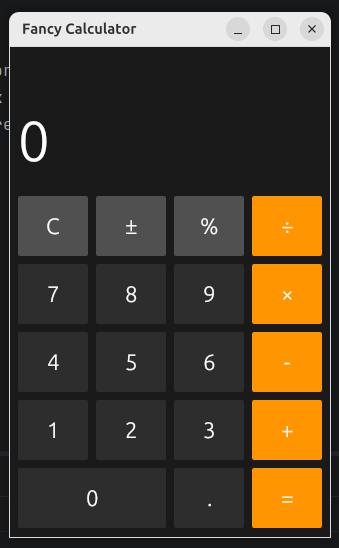
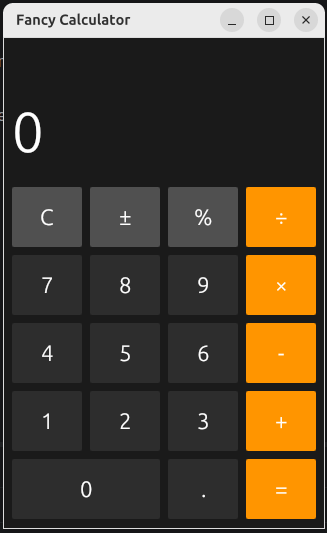
add app_id

diff --git a/src/main.rs b/src/main.rs
@@ -1,8 +1,10 @@
 use eframe::egui;
 
 fn main() -> eframe::Result<()> {
+    let app_id = "nl.one.winger.calc";
     let options = eframe::NativeOptions {
         viewport: egui::ViewportBuilder::default()
+            .with_app_id(app_id)
             .with_inner_size([320.0, 490.0])
             .with_min_inner_size([300.0, 500.0]),
         ..Default::default()
